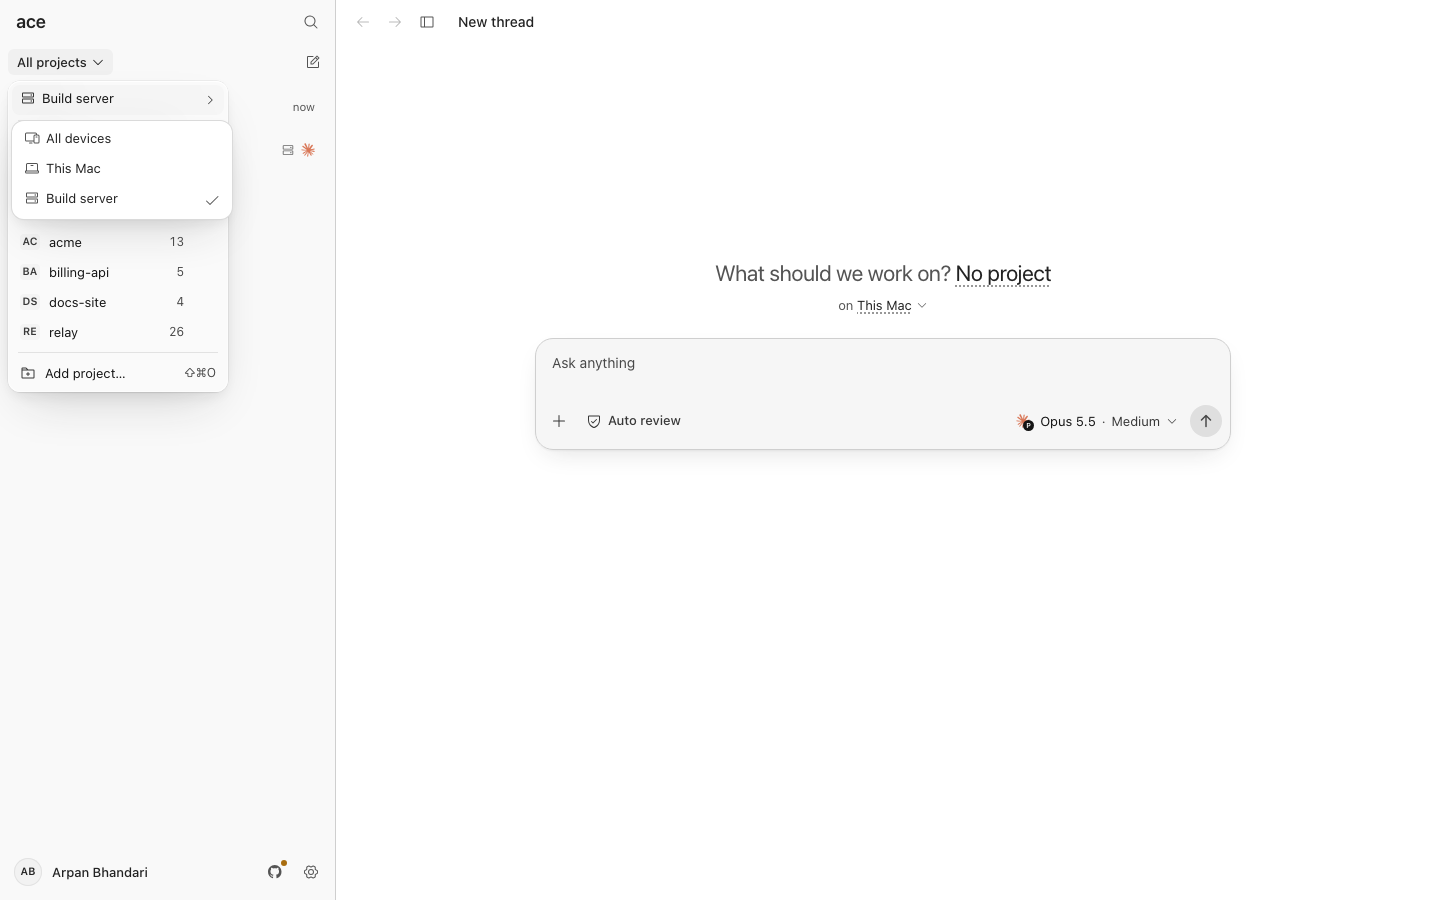
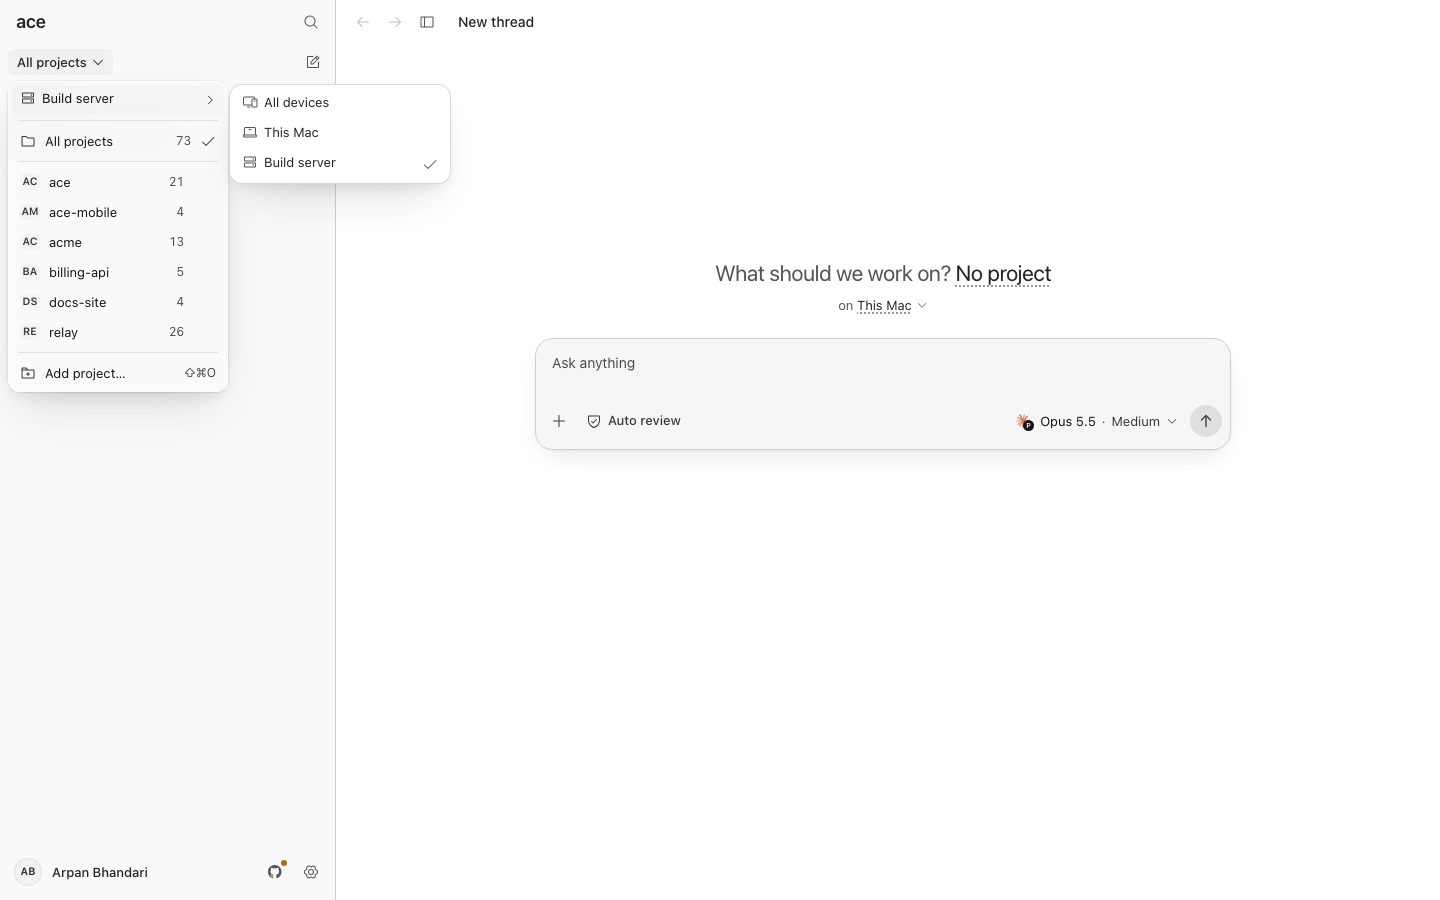
Align the device submenu beside the projects menu

Changed region(s): [[0.1562, 0.0933, 0.3125, 0.2178], [0.0, 0.1244, 0.1562, 0.2489]]

diff --git a/tools/web-e2e/e2e/fake/chat-composer.spec.ts b/tools/web-e2e/e2e/fake/chat-composer.spec.ts
@@ -1,8 +1,16 @@
 import { expect, test, type Page } from "@playwright/test";
 
+// Cold Vite compilation and the responsive screenshot pass can exceed the default deadline.
+test.setTimeout(60_000);
+
 async function openDeviceMenu(page: Page) {
   await page.getByRole("button", { name: /^Project filter:/ }).click();
   await page.getByRole("menuitem", { name: /^Device filter:/ }).click();
+  await expect(page.getByRole("menuitemradio", { name: "All devices", exact: true })).toBeVisible();
+  const projects = await page.getByRole("menu").nth(0).boundingBox();
+  const devices = await page.getByRole("menu").nth(1).boundingBox();
+  if (!projects || !devices) throw new Error("Missing filter menus");
+  expect(devices.x).toBeGreaterThanOrEqual(projects.x + projects.width - 1);
 }
 
 test("an empty chat has no top strip, while project controls still show", async ({

diff --git a/apps/web/src/features/home/device-filter.tsx b/apps/web/src/features/home/device-filter.tsx
@@ -38,7 +38,7 @@ export function DeviceFilter() {
             allLabel
           )}
         </MenuSubTrigger>
-        <MenuContent className="max-h-[60vh] overflow-y-auto">
+        <MenuContent side="right" align="start" className="max-h-[60vh] overflow-y-auto">
           <MenuRadioGroup
             value={device ?? all}
             onValueChange={(value) =>
